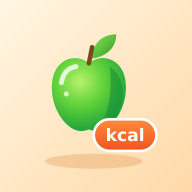
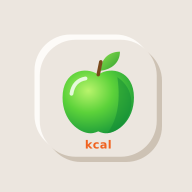
Ikona: okrągłe soczyste jabłko w pastylce, mały napis kcal
Claude-Session: https://claude.ai/code/session_01XxfU2ANVa92GaJcJ45HUzq

diff --git a/sw.js b/sw.js
@@ -1,4 +1,4 @@
-const CACHE = 'zds-v10';
+const CACHE = 'zds-v11';
 const ASSETS = ['./', 'index.html', 'styles.css', 'app.js', 'config.js', 'sync.js', 'recipes.js', 'kuchnia.js', 'stats.js', 'data/rules.json', 'data/recipes.json', 'data/napoje.json', 'manifest.webmanifest', 'icons/icon.svg', 'icons/icon-192.png', 'icons/icon-512.png', 'icons/apple-touch-icon.png'];
 
 self.addEventListener('install', (e) => {
